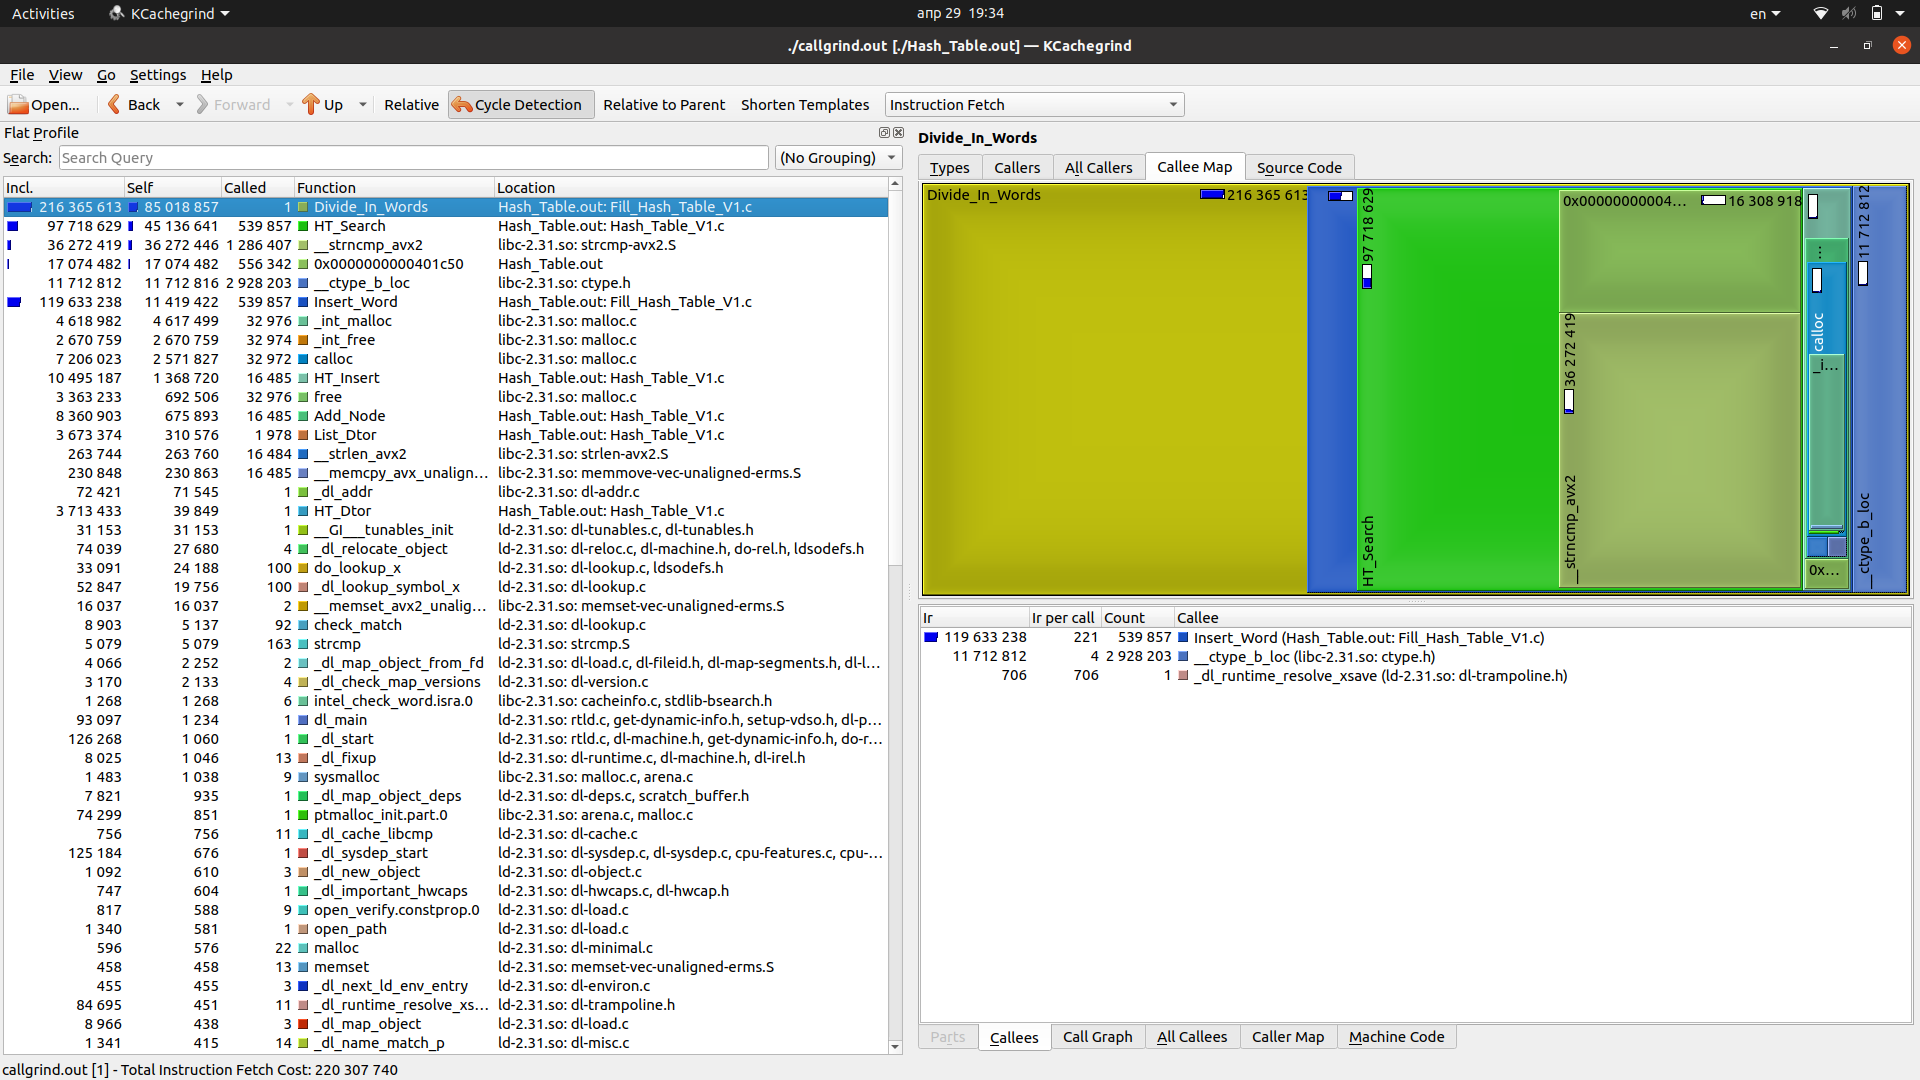
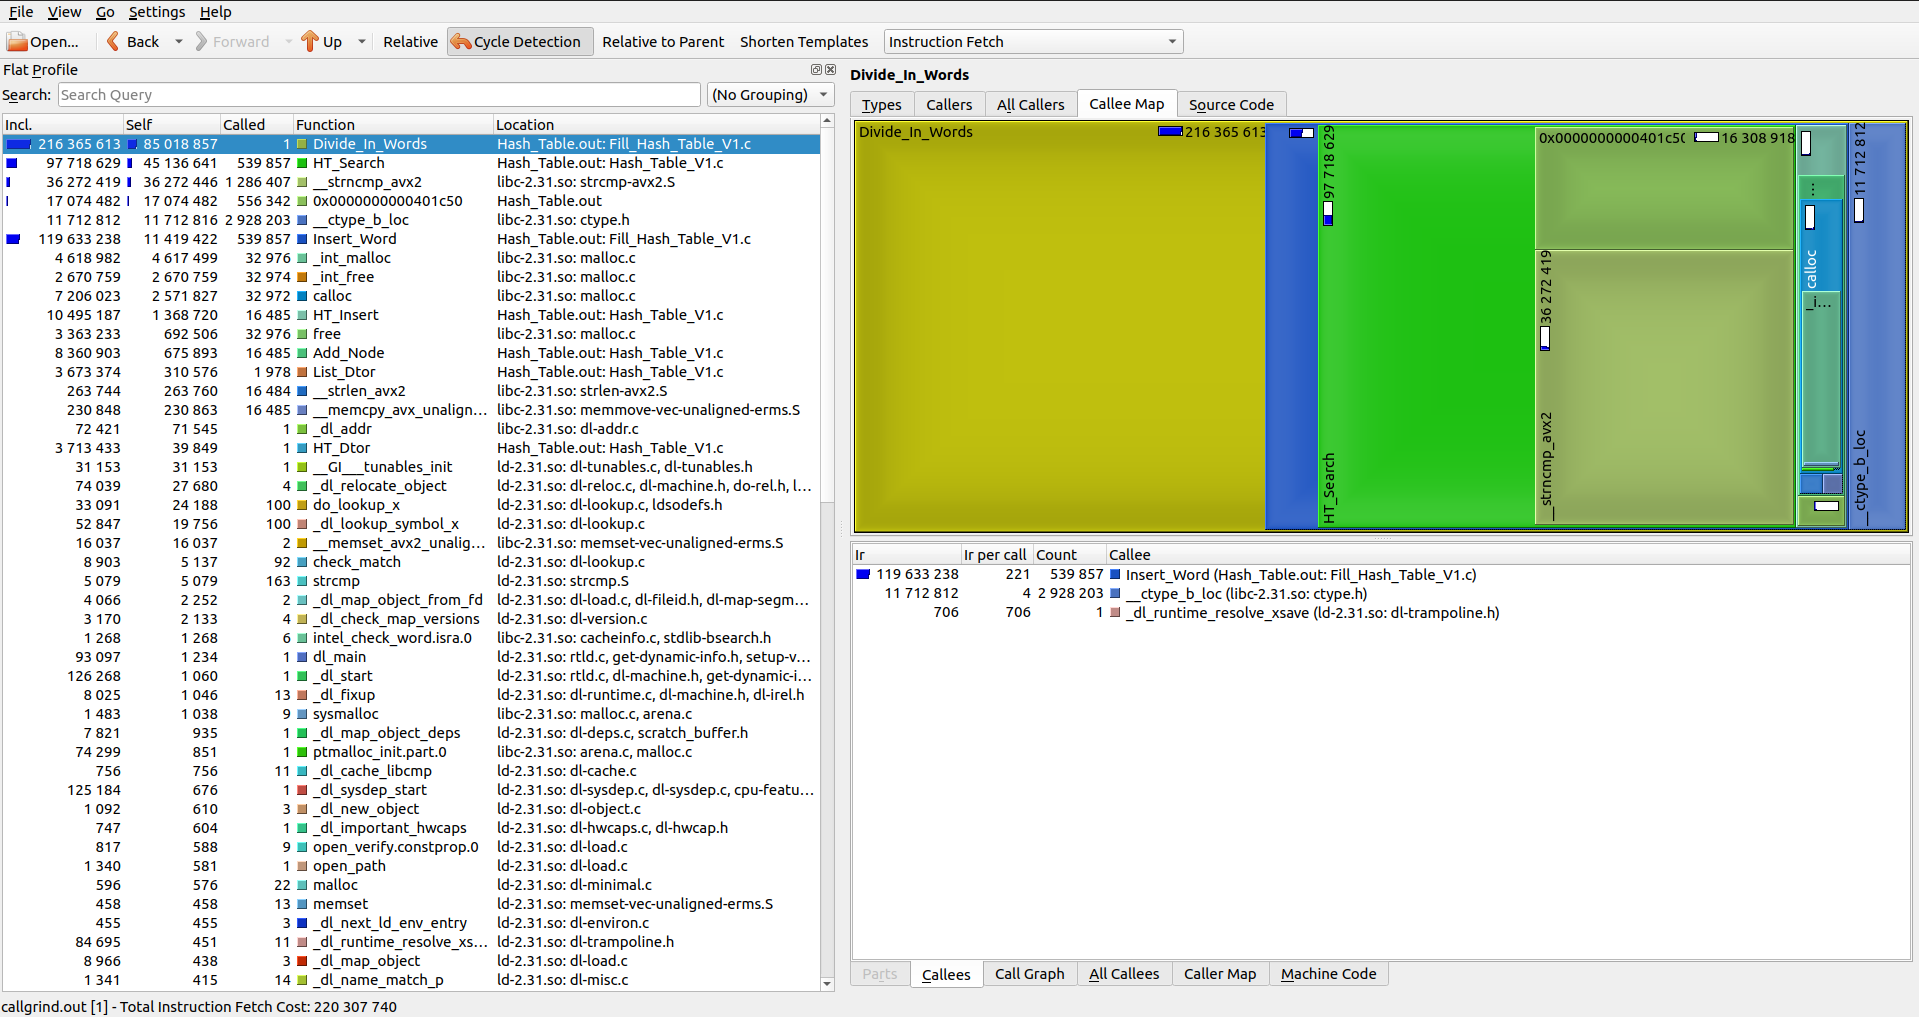
Version_1 of optimization

diff --git a/Optimized/Version_1/Hash_Table_V1.c b/Optimized/Version_1/Hash_Table_V1.c
@@ -52,8 +52,10 @@ uint64_t Ded_Hash (const char *data);
 //                                  CONSTRUCTORS AND DESTRUCTORS                                  //
 //~~~~~~~~~~~~~~~~~~~~~~~~~~~~~~~~~~~~~~~~~~~~~~~~~~~~~~~~~~~~~~~~~~~~~~~~~~~~~~~~~~~~~~~~~~~~~~~~//
 
-struct Hash_Table *HT_Ctor (enum Hash_Func function, uint64_t ht_size)
+struct Hash_Table *HT_Ctor (enum Hash_Func function, const uint64_t ht_size)
 {
+    MY_ASSERT (ht_size > 0, "const uint64_t ht_size", POS_VAL, NULL);
+    
     struct Hash_Table *ht_ptr = (struct Hash_Table *)calloc (1, sizeof (struct Hash_Table));
     MY_ASSERT (ht_ptr, "struct Hash_Table *ht_ptr", NE_MEM, NULL);
 
@@ -209,7 +211,7 @@ void HT_Insert (struct Hash_Table *ht_ptr, const char *data)
         while (next != NULL)
         {
             current = next;
-            next = current->next;
+            next    = current->next;
         }
 
         current->next = Add_Node (data);
@@ -228,13 +230,6 @@ void HT_Insert (struct Hash_Table *ht_ptr, const char *data)
 //***********************************************************************************************//
 //                                     SEARCHING AND DELETING                                    //
 //***********************************************************************************************//
-enum STR_CMP
-{
-    EQUAL,
-    NOT_EQUAL
-};
-
-extern int Str_Cmp_Align16 (const char *const str_1, const char *const str_2, const size_t len);
 
 int HT_Search (const struct Hash_Table *ht_ptr, const char *const data)
 {
@@ -254,7 +249,7 @@ int HT_Search (const struct Hash_Table *ht_ptr, const char *const data)
         int node_i = 0;
         for ( ; next != NULL; node_i++)
         {           
-            if (strncmp (current->str, data, current->len + 1) == EQUAL)
+            if (strncmp (current->str, data, current->len + 1) == 0)
                 return node_i;
             else
             {
@@ -263,7 +258,7 @@ int HT_Search (const struct Hash_Table *ht_ptr, const char *const data)
             }
         }
 
-        return (strncmp (current->str, data, current->len + 1) == EQUAL) ? node_i : NOT_FOUND;
+        return (strncmp (current->str, data, current->len + 1) == 0) ? node_i : NOT_FOUND;
     }
 }
 
@@ -310,7 +305,7 @@ int HT_Delete (struct Hash_Table *ht_ptr, const char *data)
         int node_i = 0;
         for ( ; next != NULL; node_i++)
         {
-            if (strncmp (current->str, data, current->len + 1) == EQUAL)
+            if (strncmp (current->str, data, current->len + 1) == 0)
             {               
                 if (node_i == 0)
                     Delete_Beg_ (ht_ptr, hash, current);
@@ -327,7 +322,7 @@ int HT_Delete (struct Hash_Table *ht_ptr, const char *data)
             }
         }
         
-        if (strncmp (current->str, data, current->len + 1) == EQUAL)
+        if (strncmp (current->str, data, current->len + 1) == 0)
         {
             if (node_i == 0)
                 Delete_Beg_ (ht_ptr, hash, current);

diff --git a/Optimized/Version_1/Hash_Table_V1.h b/Optimized/Version_1/Hash_Table_V1.h
@@ -54,7 +54,7 @@ void HT_Fill   (struct Hash_Table *ht_ptr, const char *file_name);
 
 #endif
 
-struct Hash_Table *HT_Ctor (enum Hash_Func function, uint64_t ht_size);
+struct Hash_Table *HT_Ctor (enum Hash_Func function, const uint64_t ht_size);
 int HT_Search              (const struct Hash_Table *ht_ptr, const char *const data);
 int HT_Delete              (struct Hash_Table *ht_ptr, const char *const data);
 #endif

diff --git a/Optimized/Version_1/main.c b/Optimized/Version_1/main.c
@@ -1,10 +1,5 @@
 /*
-    DESCRIPTION
-    ~~~~~~~~~~~
-
-    Hash function Ded_Hash () was implemented in the assembly language
-
-    229 246 310 clock signals
+    220 307 740 clock signals
 */
 
 #include "Hash_Table_V1.h"
